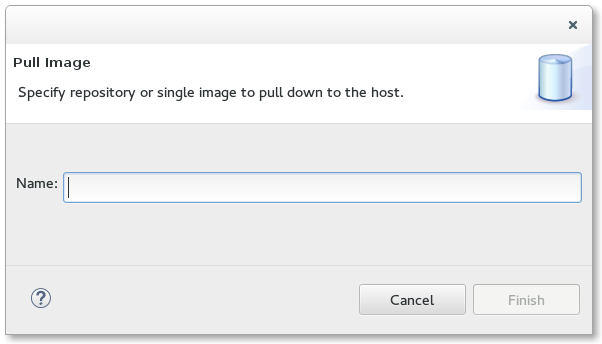
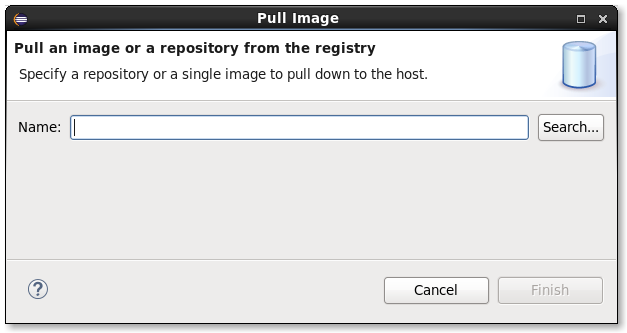
Bug 484166 - Update Docker docs for 1.2.0
- update from Linux Tools wiki page

Changed region(s): [[0.0, 0.0, 0.9867, 0.991]]

diff --git a/containers/org.eclipse.linuxtools.docker.docs/Linux_Tools_Project/Docker_Tooling/User_Guide/Docker-Tooling-Perspective.html b/containers/org.eclipse.linuxtools.docker.docs/Linux_Tools_Project/Docker_Tooling/User_Guide/Docker-Tooling-Perspective.html
@@ -37,13 +37,13 @@
 		<p>This perspective brings up three new views added:</p>
 		<ul>
 			<li>
-				<a href="#Docker_Explorer_View">Docker Explorer View</a> - view for creating/managing connections to Docker daemons]]
+				<a href="Docker-Tooling-Perspective.html#Docker_Explorer_View">Docker Explorer View</a> - view for creating/managing connections to Docker daemons
 			</li>
 			<li>
-				<a href="#Docker_Images_View">Docker Images View</a> - view for managing Docker Images]]
+				<a href="Docker-Tooling-Perspective.html#Docker_Images_View">Docker Images View</a> - view for managing Docker Images
 			</li>
 			<li>
-				<a href="#Docker_Containers_View">Docker Containers View</a> - view for managing Docker Containers]]
+				<a href="Docker-Tooling-Perspective.html#Docker_Containers_View">Docker Containers View</a> - view for managing Docker Containers
 			</li>
 		</ul>
 		<p>In addition, the Docker Tooling Perspective adds the Console View and the Properties View.</p>
@@ -94,49 +94,49 @@
 		<ul>
 			<li>Dangling Images (intermediate images that are no longer referred to)</li>
 			<li>Intermediate Images (images with no repo tags that are parents of named images)</li>
-			<li>Stopped Containers (this includes paused Containers)</li>
+			<li>Stopped Containers (this does not include paused Containers)</li>
 			<li>Top-level Images (only show the first repo tag for an Image with multiple tags)</li>
 		</ul>
 		<h3 id="Docker_Explorer_Context_Menu">Docker Explorer Context Menu</h3>
 		<p>For both Containers and Images in the Docker Explorer View, right-clicking on a selection brings up the context menu with tasks to
 			perform on the selected item(s).  Actions applying to multiple items are only enabled if the action can be performed on all selected items.</p>
 		<p>
-			<img border="0" src="images/LinuxToolsExplorerContainerMenu.png"/>
+			<img border="0" src="images/LinuxToolsExplorerContainerContextMenu.png"/>
 		</p>
 		<p>For Containers, one can:</p>
 		<ul>
-			<li>Start selected Containers - start a stopped Container</li>
-			<li>Pause selected Containers - pause a running Container</li>
-			<li>Unpause selected Containers - continue a paused Container</li>
-			<li>Stop selected Containers - stop running Containers</li>
-			<li>Kill selected Containers - kill running Containers</li>
-			<li>Remove selected Containers - delete stopped Containers</li>
+			<li>Start - start a stopped Container</li>
+			<li>Pause - pause a running Container</li>
+			<li>Unpause - continue a paused Container</li>
+			<li>Stop - stop running Containers</li>
+			<li>Kill - kill running Containers</li>
+			<li>Remove - delete stopped Containers</li>
 			<li>
-				<a href="#Commit_Container">Commit Container</a> - commit the Container to an Image
+				<a href="Docker-Tooling-Perspective.html#Commit_Container">Commit</a> - commit the Container to an Image
 			</li>
 			<li>
-				<a href="#Display_Log">Display Log</a> - display the log for the Container
+				<a href="Docker-Tooling-Perspective.html#Display_Log">Display Log</a> - display the log for the Container
 			</li>
 			<li>Remove Log - removes the log for the Container from Eclipse Console View</li>
 		</ul>
 		<p>
-			<img border="0" src="images/LinuxToolsExplorerImageMenu.png"/>
+			<img border="0" src="images/LinuxToolsExplorerImageContextMenu.png"/>
 		</p>
 		<p>For Images, one can:</p>
 		<ul>
 			<li>
-				<a href="#Run_Image">Run Image</a> - build a Container and run it
+				<a href="Docker-Tooling-Perspective.html#Run_Image">Run</a> - build a Container and run it
+			</li>
+			<li>Remove - delete selected Images</li>
+			<li>
+				<a href="Docker-Tooling-Perspective.html#Push_Image">Push</a> - push an Image to a registry
 			</li>
 			<li>
-				<a href="#Push_Image">Push Image</a> - push an Image to a registry
+				<a href="Docker-Tooling-Perspective.html#Add_Tag">Add Tag</a> - add a tag to an Image
 			</li>
 			<li>
-				<a href="#Tag_Image">Tag Image</a> - add a tag to an Image
+				<a href="Docker-Tooling-Perspective.html#Remove_Tag">Remove Tag</a> - remove a tag from an Image with multiple tags
 			</li>
-			<li>
-				<a href="#Remove_Tag">Remove Tag</a> - remove a tag from an Image with multiple tags
-			</li>
-			<li>Remove Selected Images - delete selected Images</li>
 		</ul>
 		<h2 id="Docker_Images_View">Docker Images View</h2>
 		<h3 id="Overview_2">Overview</h3>
@@ -152,26 +152,26 @@
 		<ul>
 			<li>
 				<img border="0" src="images/LinuxToolsDockerImageViewPull.png"/> - 
-				<a href="#Pull_Image">pull an Image from the Repository</a>
+				<a href="Docker-Tooling-Perspective.html#Pull_Image">pull an Image from the Repository</a>
 			</li>
 			<li>
 				<img border="0" src="images/LinuxToolsDockerImageViewPush.png"/> - 
-				<a href="#Push_Image">push an Image to the Repository</a>
+				<a href="Docker-Tooling-Perspective.html#Push_Image">push an Image to the Repository</a>
 			</li>
 			<li>
 				<img border="0" src="images/LinuxToolsDockerContainerCreate.png"/> - 
-				<a href="#Run_Image">create a Container from an Image</a>
+				<a href="Docker-Tooling-Perspective.html#Run_Image">create a Container from an Image</a>
 			</li>
 			<li>
 				<img border="0" src="images/LinuxToolsDockerImageBuild.png"/> - 
-				<a href="#Build_Image">build an Image from a Dockerfile</a>
-			</li>
-			<li>
-				<img border="0" src="images/LinuxToolsDockerDeleteImage.png"/> - delete one or more Images (requires confirmation)
+				<a href="Docker-Tooling-Perspective.html#Build_Image">build an Image from a Dockerfile</a>
 			</li>
 			<li>
 				<img border="0" src="images/LinuxToolsDockerTagImage.png"/> - 
-				<a href="#Tag_Image">tag an Image</a>
+				<a href="Docker-Tooling-Perspective.html#Add_Tag">tag an Image</a>
+			</li>
+			<li>
+				<img border="0" src="images/LinuxToolsDockerDeleteImage.png"/> - delete one or more Images (requires confirmation)
 			</li>
 			<li>
 				<img border="0" src="images/LinuxToolsDockerRefreshImage.png"/> - refresh Images list
@@ -180,10 +180,10 @@
 		<p>There are also context menu actions supported:</p>
 		<ul>
 			<li>
-				<a href="#Tag_Image">Tag Image</a> - same as the toolbar tag image action
+				<a href="Docker-Tooling-Perspective.html#Add_Tag">Add Tag</a> - same as the toolbar tag image action
 			</li>
 			<li>
-				<a href="#Remove_Tag">Remove Tag</a> - remove a tag from an Image with multiple repo tags
+				<a href="Docker-Tooling-Perspective.html#Remove_Tag">Remove Tag</a> - remove a tag from an Image with multiple repo tags
 			</li>
 		</ul>
 		<p>The text entry below the Connection name is used to search/filter the contents of the list.
@@ -196,6 +196,19 @@
 		<p>
 			<img border="0" src="images/LinuxToolsDockerPullWizard.png"/>
 		</p>
+		<p>The user can either fill in the complete name of the image to download or a search can be performed
+			using the Search button.  This brings up the Search Image Wizard.</p>
+		<p>
+			<img border="0" src="images/LinuxToolsDockerSearchImageWizard.png"/>
+		</p>
+		<p>Hitting the Search button will cause a search to list all repositories with the given search term.
+			Hitting Next... shows the various tags that can be selected.</p>
+		<p>
+			<img border="0" src="images/LinuxToolsDockerSearchImageWizard2.png"/>
+		</p>
+		<p>A search is performed only on the official Docker registry.  If a user needs to download an image from a
+			private registry, then the full specification of the image, including registry, needs to be made
+			manually in the initial Wizard text box.</p>
 		<p>Once complete, the user hits the "Finish" button or hits "Cancel" to abort.</p>
 		<p>The pull of an Image may take a long time.  This is because an Image may use several intermediate
 			Images each of which may be several bytes.  The Linux Tools Docker Tooling provides status jobs
@@ -257,6 +270,21 @@
 			<li>Environment Variables - way of specifying Env variables to use in the Container</li>
 			<li>Enable Resource Limits - this is used to restrict memory or CPU priority for the Container</li>
 		</ul>
+		<p>As of Docker Tools 1.2.0, the Run Image settings are stored in a Run Launch Configuration.  You can
+			optionally use the Run Configurations Dialog (Run -&gt; Run Configurations...) to edit or create a
+			Run Image configuration.  The same data that appears in the Run Image Wizard is broken up into
+			launch configuration tabs:</p>
+		<p>
+			<img border="0" src="images/LinuxToolsRunImageLaunchConfig.png"/>
+		</p>
+		<ul>
+			<li>Main - this tab contains the Connection name, Image name, Container name, entry-point, command, and flags such as remove on exit, use STDIN, and allocate a pseudo-TTY</li>
+			<li>Volumes - this tab allows a user to mount Host volumes in the Container or mount other Container volumes</li>
+			<li>Ports - this tab allows a user to expose ports from the Container</li>
+			<li>Links - this tab allows links to other Containers</li>
+			<li>Environment - this tab allows specification of environment variables for the Container</li>
+			<li>Resources - this tab allows the user to restrict memory or CPU priority for the Container</li>
+		</ul>
 		<h3 id="Build_Image">Build Image</h3>
 		<p>Building an Image takes an existing Image and modifies it to create a new Image.  Typically this
 			involves installing new packages.  The specification of the new Docker Image is done via
@@ -277,7 +305,7 @@
 		<p>The directory can be specified using the "Browse" button.  Once a valid existing directory
 			is specified, the "Edit" button will be enabled, allowing creation and modification of the
 			Dockerfile using a 
-			<a href="#Dockerfile_Editor">basic editor dialog</a>.
+			<a href="Docker-Tooling-Perspective.html#Dockerfile_Editor">basic editor dialog</a>.
 		</p>
 		<p>When the Dockerfile is considered complete, hitting the "Finish" button will start the
 			Image build action.  When the build is complete, the Docker Images View will be refreshed
@@ -296,8 +324,7 @@
 				</ul>
 			</li>
 			<li>MAINTAINER name - this sets the Author field of the Image and is optional</li>
-			<li>RUN &lt;cmd | 
-				<a href="&quot;executable&quot;,">"arg0", "arg1" ...</a>&gt; - this is a command that is run to modify the base Image in either the cmd format or the executable format
+			<li>RUN &lt;cmd | ["executable", "arg0", "arg1" ...]&gt; - this is a command that is run to modify the base Image in either the cmd format or the executable format
 				<ul>
 					<li>The cmd form is run in a shell (/bin/sh -c cmd). </li>
 					<li>Typically, this is how you install new packages (e.g. RUN yum install -y gdb).  It can also be used to modify the configuration (e.g. sed operations on a config file).</li>
@@ -309,11 +336,8 @@
 				<ul>
 					<li>There are three forms:
 						<ul>
-							<li>
-								<a href="&quot;executable&quot;,">"param1", "param2"</a> - executable form
-							</li>
-							<li>
-								<a href="&quot;param1&quot;,">"param2"</a> - default parameters to Entrypoint (see 
+							<li>["executable", "param1", "param2"] - executable form</li>
+							<li>["param1", "param2"] - default parameters to Entrypoint (see 
 								<a href="#Create_Container">Entrypoint parameter of Create Container</a>
 							</li>
 							<li>command param1 param2 - command form</li>
@@ -344,10 +368,8 @@
 				<ul>
 					<li>There are two forms:
 						<ul>
-							<li>ADD &lt;src&gt;... &lt;dest&gt;</li>
-							<li>ADD 
-								<a href="&quot;&lt;src&quot;&quot;...">"&lt;dest&gt;</a>
-							</li>
+							<li>ADD &lt;src&gt; ... &lt;dest&gt;</li>
+							<li>ADD ["&lt;src&gt;" ... "&lt;dest&gt;"]</li>
 						</ul>
 					</li>
 					<li>The second form is used to quote names that have white-space.</li>
@@ -357,10 +379,8 @@
 				<ul>
 					<li>There are two forms:
 						<ul>
-							<li>COPY &lt;src&gt;... &lt;dest&gt;</li>
-							<li>COPY 
-								<a href="&quot;&lt;src&quot;&quot;...">"&lt;dest&gt;</a>
-							</li>
+							<li>COPY &lt;src&gt; ... &lt;dest&gt;</li>
+							<li>COPY ["&lt;src&gt;"... "&lt;dest&gt;"]</li>
 						</ul>
 					</li>
 					<li>The second form is used to quote names that have white-space.</li>
@@ -370,7 +390,7 @@
 		<p>For more details, see 
 			<a href="http://docs.docker.com/reference/builder">the official Dockerfile reference</a>
 		</p>
-		<h3 id="Tag_Image">Tag Image</h3>
+		<h3 id="Add_Tag">Add Tag</h3>
 		<p>The Tag Image dialog can be brought up directly from the Docker Images View toolbar or using the
 			context menu by right-clicking on an Image.</p>
 		<p>
@@ -440,10 +460,10 @@
 		<p>The following context menu actions are supported:</p>
 		<ul>
 			<li>Commit Container - 
-				<a href="#Commit_Container">commit all changes of a selected Container into a new Image</a>
+				<a href="Docker-Tooling-Perspective.html#Commit_Container">commit all changes of a selected Container into a new Image</a>
 			</li>
 			<li>Display Log - 
-				<a href="#Display_Log">display the stdout/stderr logs of a selected Container in the Console View</a>
+				<a href="Docker-Tooling-Perspective.html#Display_Log">display the stdout/stderr logs of a selected Container in the Console View</a>
 			</li>
 			<li>Remove Log - remove the stdout/stderr logs of a selected Container from the Console View</li>
 		</ul>
@@ -463,8 +483,16 @@
 			<li>Comment - optional comment to add for the Image</li>
 		</ul>
 		<h3 id="Display_Log">Display Log</h3>
-		<p>The Display Log action opens a console in the Console View with the
-			stdout/stderr output for the Container.</p>
+		<p>The Display Log action displays the stdout/stderr output for a Container in either
+			the Console View or the Terminal View, depending on whether the Container specified
+			use of a TTY.</p>
+		<p>For Containers that run with the TTY
+			flag enabled, the output goes to the Terminal View:</p>
+		<p>
+			<img border="0" src="images/LinuxToolsDockerTerminal.png"/>
+		</p>
+		<p>For Containers that run without a TTY, the
+			output is shown in the Console View:</p>
 		<p>
 			<img border="0" src="images/LinuxToolsDockerDisplayLog.png"/>
 		</p>
@@ -483,9 +511,9 @@
 		</ul>
 		<h2 id="Properties_View">Properties View</h2>
 		<p>The Properties View will respond to selections in the three Docker Tooling Views: 
-			<a href="#Docker_Explorer_View">Docker Explorer View</a>, 
-			<a href="#Docker_Images_View">Docker Images View</a>, and the 
-			<a href="#Docker_Containers_View">Docker Containers View</a>.  The data shown will depend on what is being selected:
+			<a href="Docker-Tooling-Perspective.html#Docker_Explorer_View">Docker Explorer View</a>, 
+			<a href="Docker-Tooling-Perspective.html#Docker_Images_View">Docker Images View</a>, and the 
+			<a href="Docker-Tooling-Perspective.html#Docker_Containers_View">Docker Containers View</a>.  The data shown will depend on what is being selected:
 		</p>
 		<ul>
 			<li>Docker Connection</li>

diff --git a/containers/org.eclipse.linuxtools.docker.docs/Linux_Tools_Project/Docker_Tooling/User_Guide/Updating-This-Document.html b/containers/org.eclipse.linuxtools.docker.docs/Linux_Tools_Project/Docker_Tooling/User_Guide/Updating-This-Document.html
@@ -27,7 +27,7 @@
 		</table><hr/>
 		<h1 id="Updating_This_Document">Updating This Document</h1>
 		<pre>   This document is maintained in a collaborative wiki.  If you wish to update or modify this document please visit
-   <a href="http://wiki.eclipse.org/Linux_Tools_Project/Docker_Tooling/User_Guide">http://wiki.eclipse.org/Linux_Tools_Project/Docker_Tooling/User_Guide</a> .
+   http://wiki.eclipse.org/Linux_Tools_Project/Docker_Tooling/User_Guide .
 </pre><hr/>
 		<table class="navigation" style="width: 100%;" border="0" summary="navigation">
 			<tr>
